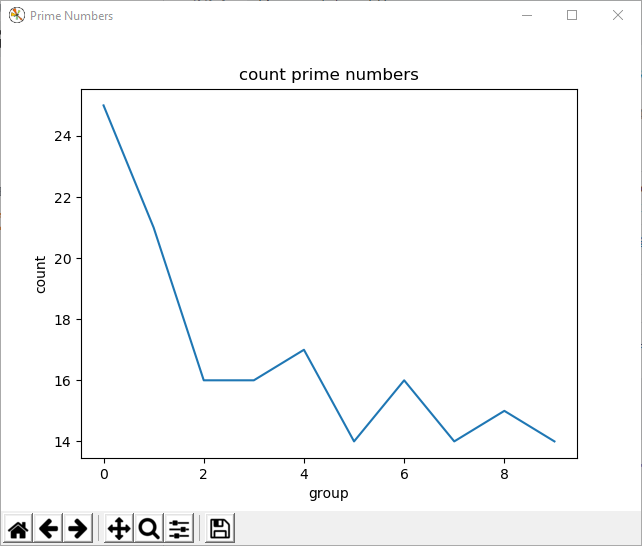
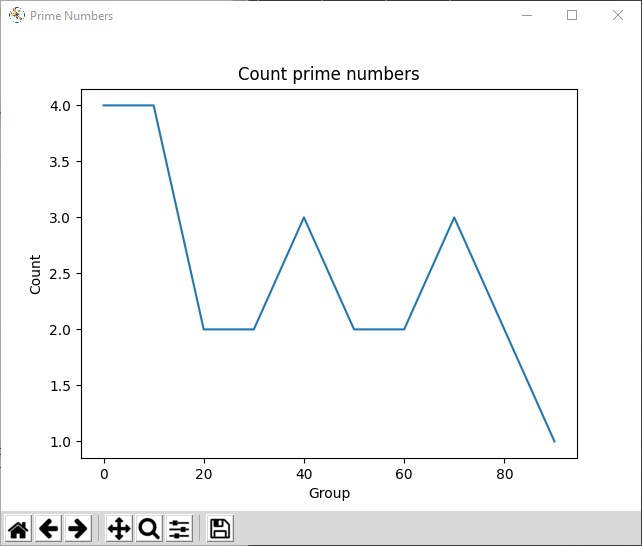
Review Pull Request.

diff --git a/math.py b/math.py
@@ -2,85 +2,96 @@ from matplotlib import pyplot as plt
 from prettytable import PrettyTable
     
 
-UPPER_BOUND = 100
+UPPER_BOUND = 200
 GROUP = 10
 
 
 def main():
-	l = prime_numbers(UPPER_BOUND)
-	print('All prime numbers less than {}:\n'.format(UPPER_BOUND), l)
+	primes = get_prime_numbers(UPPER_BOUND)
+
+	prime_groups = group_by(primes, GROUP)
+
+	group_label, groups_len = get_len(prime_groups)
+
+	plot_primes(primes)
+	plot_consol(group_label, groups_len)
+	plot_curve(group_label, groups_len)
+
 	
-	map = group_by(l, GROUP)
-
-	prime_groups = digest(map)
-
-	plot_consol(prime_groups)
-	plot_curve(prime_groups)
-	
-
-def prime_numbers(borne_sup):
+def get_prime_numbers(upper_bound):
 	prime_list = []
-	for n in range(2, borne_sup):
+	for n in range(2, upper_bound):
 		for x in range(2, n):
 			if n % x == 0:
 				break
 		else:
-			# loop fell through without finding a factor
-			prime_list.append(n)
+			prime_list += [n]
 
 	return prime_list
 
 
-def group_by(list, group):
-	map_group = {}
-
+'''
+	Devide the intervalle into smaller intervalles with the size of "group".
+	Regroup the primes, based on those sub-intervalles.
+'''
+def group_by(primes, group):
 	i=0
+	map_group = {}
 	map_group[i] = []	
-	for x in list:
-		if x >= (i+1)*group:
-			while x >= (i+1)*group:
+
+	for p in primes:
+		if p >= (i+1)*group:
+			while p >= (i+1)*group:
 				i+=1
 			map_group[(i)*group] = []
 		
-		map_group[(i)*group].append(x)
+		map_group[(i)*group] += [p]
 
 	return map_group
 
 
-def digest(map):
-	l = []
-	count = 0
-	for k, v in map.items():
-		count += len(v)
-		l.append(len(v))
+def get_len(prime_groups):
+	group_label = []
+	groups_len = []
 
-	return l
+	for key, value in prime_groups.items():
+		group_label += [key]
+		groups_len += [len(value)]
 
-
-def plot_curve(list):
-	plt.figure('Prime Numbers')
-	plt.plot(list)
-	
-	plt.title("count prime numbers")
-	plt.ylabel("count")
-	plt.xlabel("group")
-	plt.show()
+	return group_label, groups_len
 
 
-def plot_consol(list):
+# ------------- Display ---------------
+
+
+def plot_primes(primes):
+	print(f'All prime numbers smaller than {UPPER_BOUND}:\n', primes)
+
+
+def plot_consol(group_label, groups_len):
 	tab = PrettyTable()
-
 	tab.field_names = ["Group", "Count", "Total"]
-	total = 0
-	for i, elm in enumerate(list):
-		total += elm
-		tab.add_row([i*GROUP, elm, total])
 
+	total = 0
+	for label, group_len in zip(group_label, groups_len):
+		total += group_len
+		tab.add_row([label, group_len, total])
 
 	print('\nAll primes grouped by {}:'.format(GROUP))
 	print(tab)
 
-# ----------------------------
+
+def plot_curve(group_label, groups_len):
+	plt.figure('Prime Numbers')
+	plt.plot(group_label, groups_len)
+	
+	plt.title("Count prime numbers")
+	plt.ylabel("Count")
+	plt.xlabel("Group")
+	plt.show()
+
+
+# ------------- Main ---------------
 
 
 main()

diff --git a/README.md b/README.md
@@ -9,24 +9,19 @@ pip3 install matplotlib
 pip3 install PTable
 ```
 
+Those libraries help to display table and curves as shown bellow.
+
 
 ## Quick start 
+
 Run this command:
 ```bash
 python math.py
 ```
 
-## Settings
-If you want to personalize the application, just change those global variables:
-
-```python
-BORNE_SUP = 100
-GROUP = 10
-```
-
 ## Result
 
-### Consol
+### Consol output
 ```
 All prime numbers less than 100:
  [2, 3, 5, 7, 11, 13, 17, 19, 23, 29, 31, 37, 41, 43, 47, 53, 59, 61, 67, 71, 73, 79, 83, 89, 97]
@@ -48,5 +43,14 @@ All primes grouped by 10:
 +-------+-------+-------+
 ```
 
-### Graphic
+### Curve plot 
 ![curve](img/curve.PNG)
+
+
+## Settings
+If you want to personalize the output, just change those global variables:
+
+```python
+BORNE_SUP = 100
+GROUP = 10
+```
